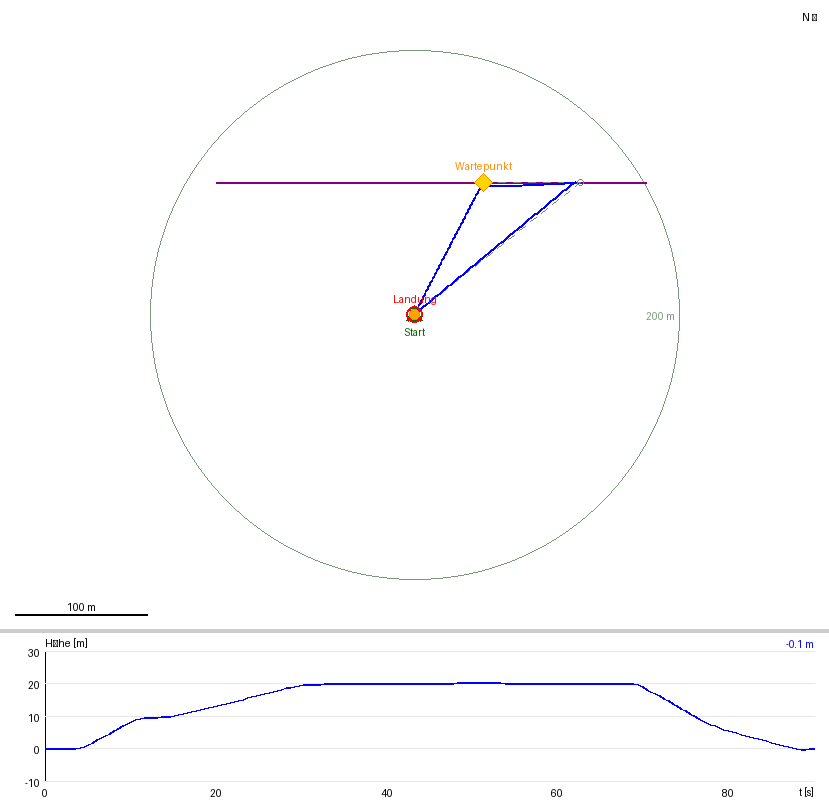
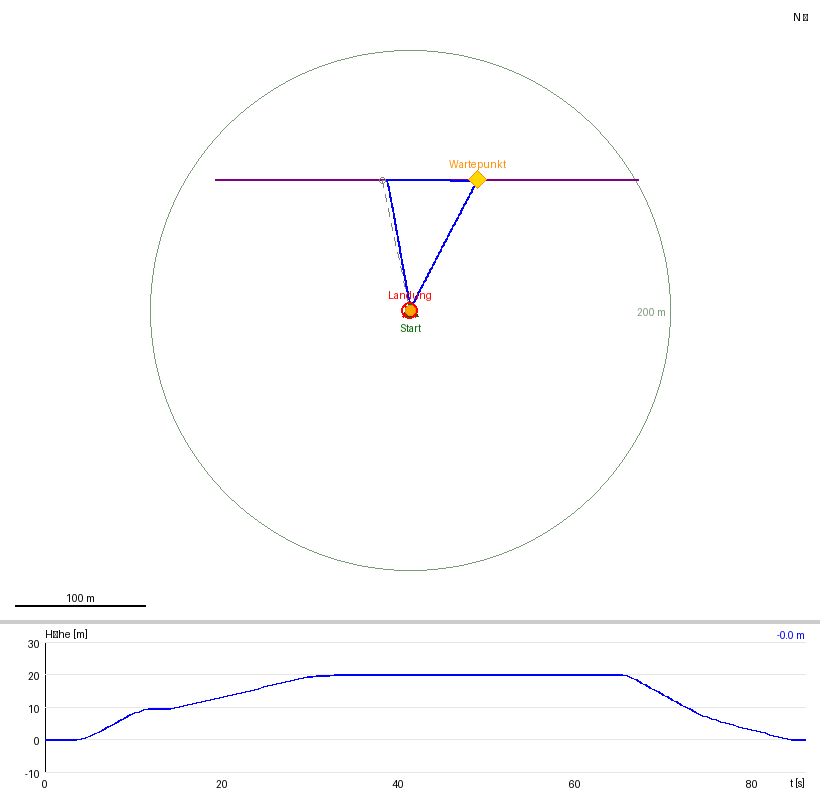
FSL: am Wartepunkt dem Trigger entgegen fliegen; SIM_BAT_MIN_PCT sicher zuruecksetzen
- Folgestrecke ab dem Wartepunkt 10 s auf der Trigger-Bahn GEGEN dessen
  Flugrichtung (frontal entgegen) statt in seine Richtung
- Wartepunkt-Wegpunkt mit Annahmeradius 1 m (param2); PX4-Default
  NAV_ACC_RAD = 10 m liess die FSL vor der Kehrtwende ~10 m zu frueh drehen
- Akku-SITL-Test: nach dem Zuruecksetzen warten, bis PX4 den Default auch
  gespeichert hat (vorher blieb SIM_BAT_MIN_PCT = 10 % in parameters.bson
  stehen und verfaelschte spaetere Sitzungen); beide FSL-Tests pruefen den
  gespeicherten Wert vorab (sitl_helper.persisted_px4_param)
- Tests: Richtung (auch diagonal), Annahmeradius, SITL prueft Flug >= 30 m
  dem Trigger entgegen; README, Beispielbild aktualisiert

diff --git a/model/intercept.py b/model/intercept.py
@@ -48,7 +48,7 @@ class Trigger:
 class InterceptConfig:
     climb_alt: float = 10.0         # Aufstieg auf 10 m über Grund
     lead_distance: float = 10.0     # Wartepunkt mindestens 10 m vor dem Trigger
-    follow_time: float = 10.0       # 10 s entlang der Trigger-Bahn
+    follow_time: float = 10.0       # 10 s dem Trigger entgegen (auf seiner Bahn)
     speed: float = 8.0              # Soll-Geschwindigkeit FSL (DO_CHANGE_SPEED) [m/s]
     speed_efficiency: float = 0.92  # erreichte / gesetzte Geschwindigkeit (SITL ≈ 7,5/8)
     prep_time: float = 3.0          # Trigger → Missionsstart (Planung, Upload, Startbefehl) [s]
@@ -56,6 +56,7 @@ class InterceptConfig:
     approach_time: float = 4.0      # Abbremsen am Wartepunkt [s]
     climb_rate: float = 2.0         # vertikale Geschwindigkeit für Höhenänderung [m/s]
     min_alt: float = 10.0           # Wartepunkt nie unter 10 m
+    wait_acceptance: float = 1.0    # Annahmeradius Wartepunkt [m] (PX4-Default NAV_ACC_RAD = 10 m)
     max_search: float = 3000.0      # max. Suchweg entlang der Trigger-Bahn [m]
     step: float = 1.0               # Suchschritt [m]
     timeout: float = 180.0          # Überwachung: max. Flugzeit ab Start [s]
@@ -68,7 +69,7 @@ class InterceptPlan:
     reason: str = ""
     trigger_now: tuple = None       # (e, n, u) bei Planung
     wait: tuple = None              # Wartepunkt (e, n, u)
-    follow_end: tuple = None        # Ende der 10-s-Strecke entlang der Bahn
+    follow_end: tuple = None        # Ende der 10-s-Strecke dem Trigger entgegen
     along: float = 0.0              # Abstand Trigger → Wartepunkt entlang der Bahn [m]
     t_fsl: float = 0.0              # Ankunft FSL am Wartepunkt ab Planung [s]
     t_trigger: float = 0.0          # Trigger am Wartepunkt ab Planung [s]
@@ -108,8 +109,9 @@ def plan_intercept(trigger, now, cfg):
         t_fsl = fsl_time_to(p, cfg)
         t_lead = (s - cfg.lead_distance) / v      # Trigger noch lead_distance vor dem Punkt
         if t_fsl <= t_lead:
+            # ab dem Wartepunkt dem Trigger entgegen: auf seiner Bahn gegen seine Flugrichtung
             follow = cfg.speed * cfg.speed_efficiency * cfg.follow_time
-            f = (p[0] + de * follow, p[1] + dn * follow, p[2])
+            f = (p[0] - de * follow, p[1] - dn * follow, p[2])
             path_end = s + follow + 50.0
             return InterceptPlan(
                 True, "erreichbar",
@@ -134,7 +136,7 @@ def enu_to_latlon(origin, east, north):
 def build_mission(plan, origin, cfg, target_system=1, target_component=1):
     """
     MAVLink-MISSION_ITEM_INT-Liste (Multicopter):
-    Takeoff 10 m → Geschwindigkeit → Wartepunkt → Warten → 10 s entlang der Bahn → Landen am Start.
+    Takeoff 10 m → Geschwindigkeit → Wartepunkt → Warten → 10 s dem Trigger entgegen → Landen am Start.
     """
     M = mavutil.mavlink
     rel, mis = M.MAV_FRAME_GLOBAL_RELATIVE_ALT, M.MAV_FRAME_MISSION
@@ -151,7 +153,8 @@ def build_mission(plan, origin, cfg, target_system=1, target_component=1):
 
     add(M.MAV_CMD_NAV_TAKEOFF, rel, (0, 0, 0, nan), origin[0], origin[1], cfg.climb_alt)
     add(M.MAV_CMD_DO_CHANGE_SPEED, mis, (1, cfg.speed, -1, 0))
-    add(M.MAV_CMD_NAV_WAYPOINT, rel, (0, 0, 0, nan), wait_lat, wait_lon, plan.wait[2])
+    # param2 = Annahmeradius: Wartepunkt genau anfliegen, bevor dem Trigger entgegen gedreht wird
+    add(M.MAV_CMD_NAV_WAYPOINT, rel, (0, cfg.wait_acceptance, 0, nan), wait_lat, wait_lon, plan.wait[2])
     if plan.hold >= 1.0:
         add(M.MAV_CMD_NAV_LOITER_TIME, rel, (round(plan.hold, 1), 0, 0, nan), wait_lat, wait_lon, plan.wait[2])
     add(M.MAV_CMD_NAV_WAYPOINT, rel, (0, 0, 0, nan), fol_lat, fol_lon, plan.follow_end[2])

diff --git a/test/unittest/test_px4_application_intercept.py b/test/unittest/test_px4_application_intercept.py
@@ -13,7 +13,9 @@ from pymavlink import mavutil
 
 from QGCR.main import Application
 from QGCR.model.intercept import enu_to_latlon
-from QGCR.test.unittest.sitl_helper import PX4Sitl, requires_sitl, gz_model_pose, assert_no_foreign_session
+from QGCR.test.unittest.sitl_helper import (
+    PX4Sitl, requires_sitl, gz_model_pose, assert_no_foreign_session, persisted_px4_param,
+)
 
 
 @requires_sitl
@@ -69,6 +71,8 @@ class TestPX4ApplicationIntercept(unittest.TestCase):
 
     def test_trigger_to_landing(self):
         m = self.model
+        self.assertIn(persisted_px4_param("SIM_BAT_MIN_PCT"), (None, 50.0),
+                      "SIM_BAT_MIN_PCT verstellt – Akku-RTL würde den Einsatz verfälschen")
         self.pump_until(lambda: m.hfsm_main == "READY" and m.ready_to_arm
                         and getattr(m, "mission_ms", None) is not None, 150, "READY")
 
@@ -119,6 +123,14 @@ class TestPX4ApplicationIntercept(unittest.TestCase):
             return math.hypot((p[0] - q[0]) * 111_320.0,
                               (p[1] - q[1]) * 111_320.0 * math.cos(math.radians(p[0])))
         self.assertLess(min(dist_m(p, wait_ll) for p in m.mission_track), 5.0)
+
+        # nach dem Wartepunkt dem Trigger entgegen: Trigger fliegt nach Osten → FSL nach Westen
+        def east_m(p):
+            return (p[1] - m.intercept_origin[1]) * 111_320.0 * math.cos(math.radians(m.intercept_origin[0]))
+        def north_m(p):
+            return (p[0] - m.intercept_origin[0]) * 111_320.0
+        self.assertTrue(any(east_m(p) < plan.wait[0] - 30.0 and abs(north_m(p) - plan.wait[1]) < 10.0
+                            for p in m.mission_track), "FSL ist nicht dem Trigger entgegen geflogen")
         self.assertLess(dist_m(m.mission_track[-1], m.intercept_origin), 3.0)
 
     # ------------------------------------------------------------
@@ -158,6 +170,9 @@ class TestPX4ApplicationIntercept(unittest.TestCase):
         self.pump_until(lambda: m.hfsm_main == "READY" and m.ready_to_arm
                         and getattr(m, "mission_ms", None) is not None, 150, "READY")
 
+        # Vorbedingung: normaler Default (ein früherer Abbruch kann 10 % hinterlassen haben)
+        self.assertIn(persisted_px4_param("SIM_BAT_MIN_PCT"), (None, 50.0))
+
         # PX4 speichert Parameter in SITL dauerhaft → in jedem Fall zurücksetzen
         self.assertTrue(self.set_px4_param("SIM_BAT_MIN_PCT", 10.0), "SIM_BAT_MIN_PCT nicht gesetzt")
         try:
@@ -180,6 +195,13 @@ class TestPX4ApplicationIntercept(unittest.TestCase):
             self.assertLess(dist, 3.0, "nicht am Start gelandet")
         finally:
             self.assertTrue(self.set_px4_param("SIM_BAT_MIN_PCT", 50.0), "SIM_BAT_MIN_PCT nicht zurückgesetzt")
+            # PX4 speichert verzögert: erst beenden, wenn der Default auch gespeichert ist
+            deadline = time.time() + 15.0
+            while persisted_px4_param("SIM_BAT_MIN_PCT") not in (None, 50.0) and time.time() < deadline:
+                self.app.root.update()
+                time.sleep(0.2)
+            self.assertIn(persisted_px4_param("SIM_BAT_MIN_PCT"), (None, 50.0),
+                          "SIM_BAT_MIN_PCT ist noch gespeichert – PX4-Konsole: param set SIM_BAT_MIN_PCT 50")
 
 
 if __name__ == "__main__":

diff --git a/test/unittest/test_model_intercept.py b/test/unittest/test_model_intercept.py
@@ -70,11 +70,24 @@ class TestModelIntercept(unittest.TestCase):
         climbing = plan_intercept(Trigger("C", 0, -150, 100, 20, 5, 0, 0.5), 0, self.cfg)
         self.assertAlmostEqual(climbing.wait[2], 20 + 0.1 * climbing.along)
 
-    def test_follow_end_is_10s_along_track(self):
-        plan = plan_intercept(self.trigger, 1000.0, self.cfg)
+    def test_follow_end_is_10s_towards_trigger(self):
+        """Ab dem Wartepunkt fliegt die FSL dem Trigger entgegen (gegen seine Flugrichtung)."""
+        plan = plan_intercept(self.trigger, 1000.0, self.cfg)          # Trigger fliegt nach Osten
         follow = self.cfg.speed * self.cfg.speed_efficiency * self.cfg.follow_time
-        self.assertAlmostEqual(plan.follow_end[0] - plan.wait[0], follow)
+        self.assertAlmostEqual(plan.follow_end[0] - plan.wait[0], -follow)   # nach Westen
         self.assertAlmostEqual(plan.follow_end[1], plan.wait[1])
+        self.assertAlmostEqual(plan.follow_end[2], plan.wait[2])
+
+    def test_follow_direction_diagonal(self):
+        trigger = Trigger("D", 0, -200, -200, 20, 4, 3, 0)               # nach Nordost
+        plan = plan_intercept(trigger, 0, self.cfg)
+        de, dn = plan.follow_end[0] - plan.wait[0], plan.follow_end[1] - plan.wait[1]
+        self.assertAlmostEqual(de / dn, 4 / 3)                           # auf der Bahn ...
+        self.assertLess(de, 0)                                          # ... nach Südwest
+        self.assertLess(dn, 0)
+        tn = plan.trigger_now
+        dist = lambda p: math.hypot(p[0] - tn[0], p[1] - tn[1])
+        self.assertLess(dist(plan.follow_end), dist(plan.wait))          # näher am Trigger
 
     def test_enu_to_latlon(self):
         lat, lon = enu_to_latlon(ORIGIN, 0, 111.32)
@@ -92,6 +105,7 @@ class TestModelIntercept(unittest.TestCase):
         self.assertEqual([i.seq for i in items], list(range(6)))
         self.assertEqual(items[0].z, 10.0)                            # Aufstieg 10 m
         self.assertEqual((items[1].param1, items[1].param2), (1, self.cfg.speed))
+        self.assertEqual(items[2].param2, 1.0)                        # Wartepunkt: Annahmeradius 1 m
         self.assertAlmostEqual(items[3].param1, 12.0)
         wait_lat, wait_lon = enu_to_latlon(ORIGIN, *plan.wait[:2])
         self.assertEqual((items[2].x, items[2].y), (int(wait_lat * 1e7), int(wait_lon * 1e7)))

diff --git a/test/unittest/sitl_helper.py b/test/unittest/sitl_helper.py
@@ -131,3 +131,36 @@ def gz_model_pose(name):
             values = lines[i + 1].strip().strip("[]").split()
             return float(values[0]), float(values[1])
     return None
+
+
+def persisted_px4_param(name, px4_dir=None):
+    """
+    Wert eines Parameters in der gespeicherten SITL-Parameterdatei (rootfs/parameters.bson).
+    None = nicht gespeichert (PX4-Default gilt). PX4 speichert Änderungen verzögert.
+    """
+    import struct
+    px4_dir = os.path.expanduser(px4_dir or os.environ.get("PX4_DIR", "~/PX4-Autopilot"))
+    path = os.path.join(px4_dir, "build", "px4_sitl_default", "rootfs", "parameters.bson")
+    try:
+        with open(path, "rb") as f:
+            data = f.read()
+    except OSError:
+        return None
+    i = 4
+    while i < len(data) - 1:
+        kind = data[i]
+        i += 1
+        end = data.index(b"\0", i)
+        key = data[i:end].decode()
+        i = end + 1
+        if kind == 0x01:                              # double
+            value = struct.unpack("<d", data[i:i + 8])[0]
+            i += 8
+        elif kind == 0x10:                            # int32
+            value = struct.unpack("<i", data[i:i + 4])[0]
+            i += 4
+        else:
+            raise ValueError(f"unerwarteter BSON-Typ {kind:#x} in {path}")
+        if key == name:
+            return value
+    return None

diff --git a/README.md b/README.md
@@ -263,8 +263,8 @@ sind die HomeTab-Buttons und die Modellauswahl gesperrt; mit anderem Modell biet
   Plot dient nur der Orientierung). Höhe = Höhe der Trigger-Bahn dort, mindestens 10 m.
   Zeitmodell der FSL (SITL gemessen): 3 s Vorbereitung + 16 s bis Horizontalflug + Strecke /
   (8 m/s × 0,92) + 4 s Abbremsen.
-- **Mission:** Takeoff 10 m → `DO_CHANGE_SPEED` → Wartepunkt → ggf. `NAV_LOITER_TIME` → 10 s entlang der
-  Trigger-Bahn → `NAV_LAND` am Startpunkt. Start per `MAV_CMD_MISSION_START`.
+- **Mission:** Takeoff 10 m → `DO_CHANGE_SPEED` → Wartepunkt → ggf. `NAV_LOITER_TIME` → 10 s dem Trigger
+  entgegen (auf seiner Bahn, gegen seine Flugrichtung) → `NAV_LAND` am Startpunkt. Start per `MAV_CMD_MISSION_START`.
 - **Überwachung:** Timeout (Default 180 s ab Start) oder Akku < Minimum (Default 30 %,
   `SYS_STATUS.battery_remaining`) bzw. „Abbrechen“ → RTL (`MAV_CMD_NAV_RETURN_TO_LAUNCH`).
   SITL: die simulierte Batterie fällt im Flug nur bis `SIM_BAT_MIN_PCT` (PX4-Default 50 %) und wird
